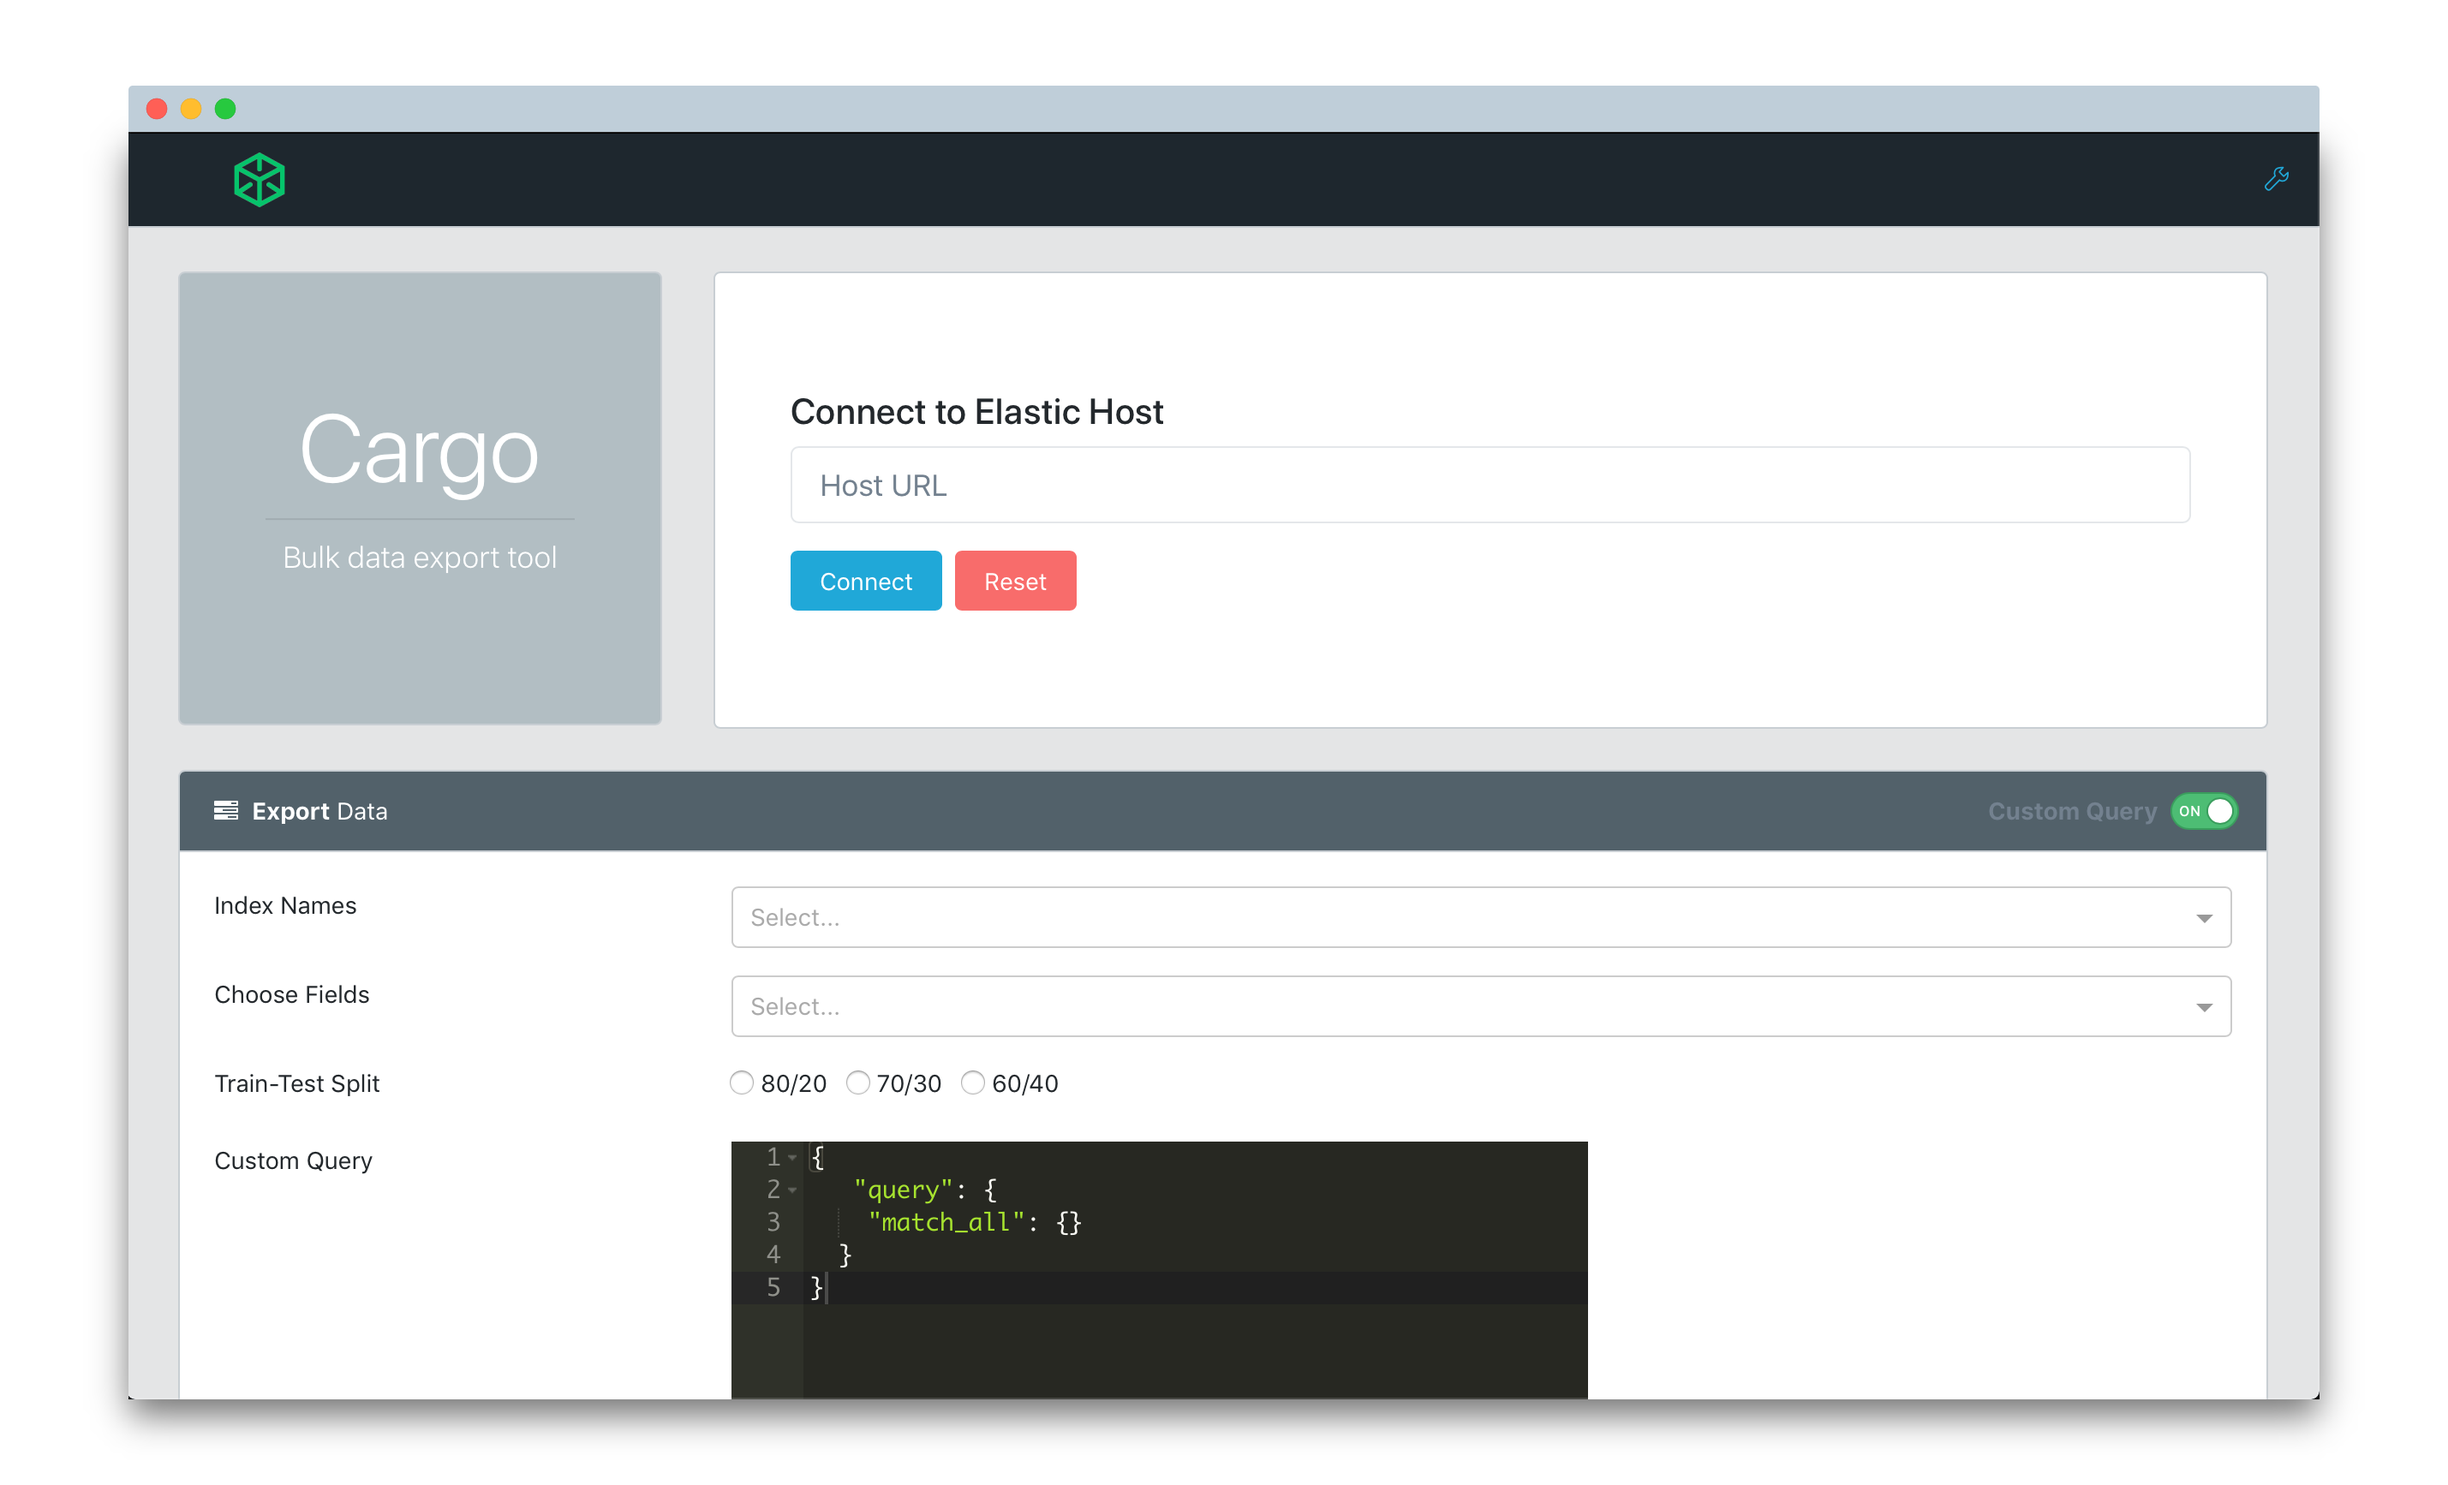
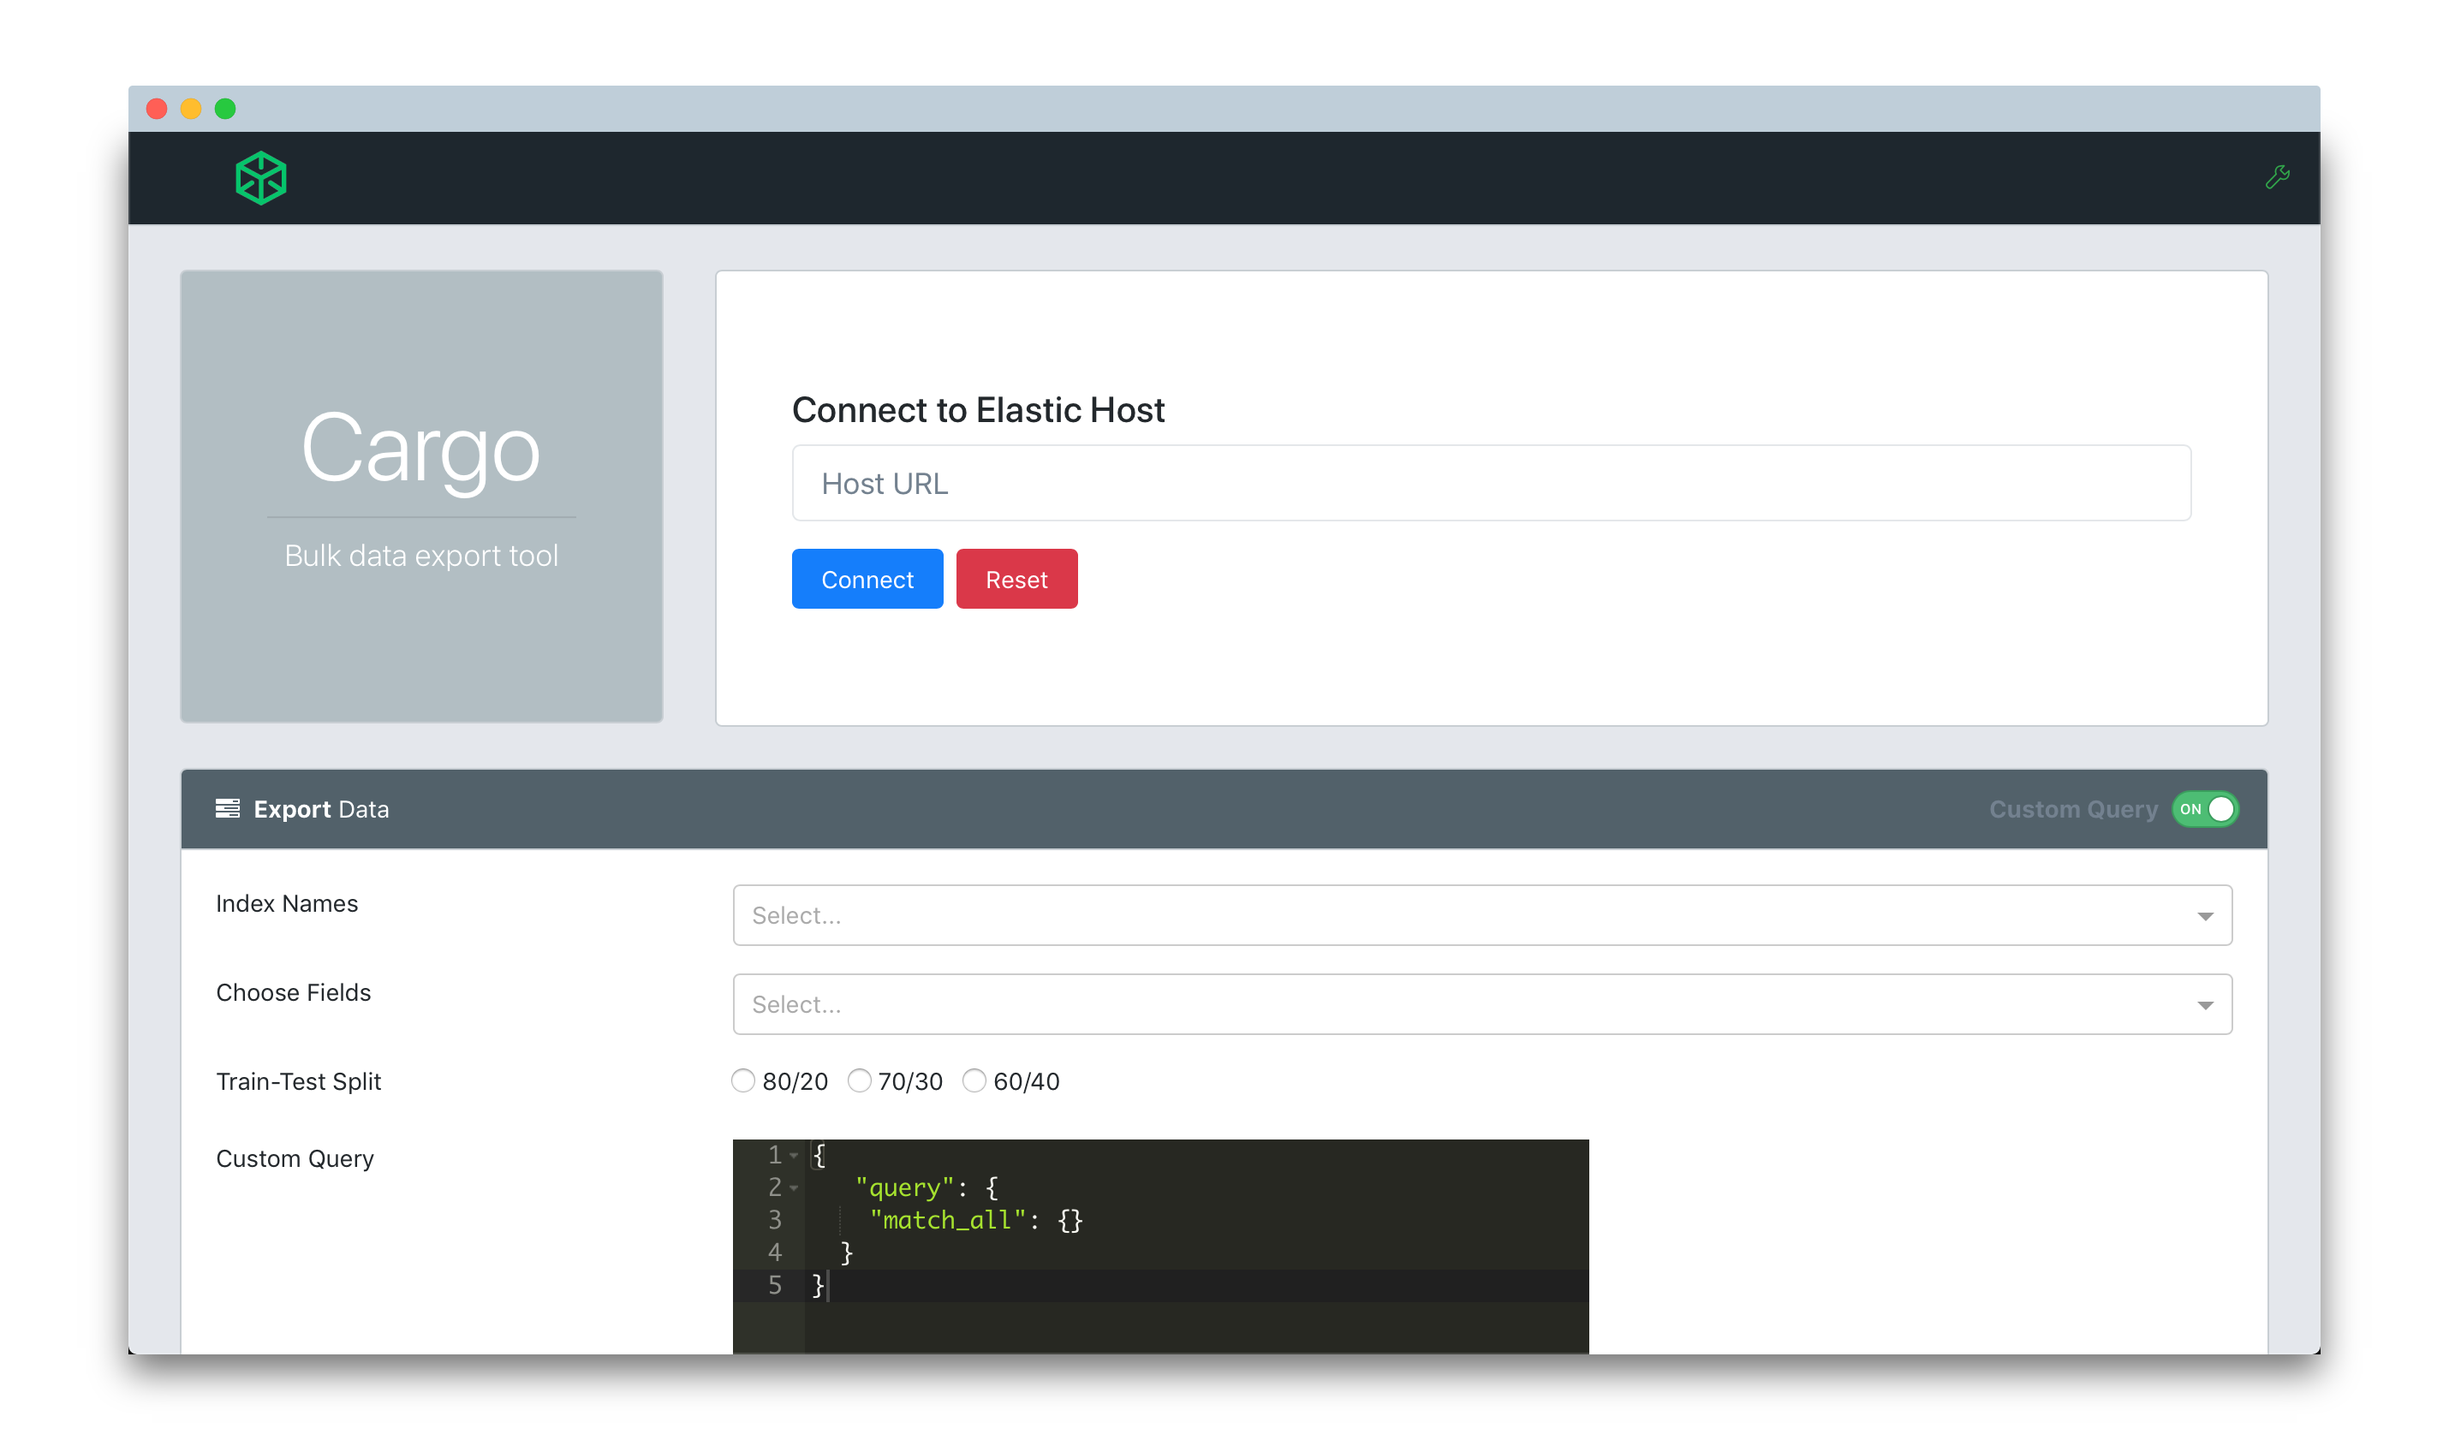
primary color change

diff --git a/services/cargo_ui/src/css/style.css b/services/cargo_ui/src/css/style.css
@@ -179,7 +179,7 @@ sup {
 }
 
 a {
-  color: #20a8d8;
+  color: #157efb;
   text-decoration: none;
   background-color: transparent;
   -webkit-text-decoration-skip: objects;
@@ -2308,8 +2308,8 @@ fieldset:disabled a.btn {
 
 .btn-primary {
   color: #fff;
-  background-color: #20a8d8;
-  border-color: #20a8d8;
+  background-color: #157efb;
+  border-color: #157efb;
 }
 
 .btn-primary:hover {
@@ -2334,8 +2334,8 @@ fieldset:disabled a.btn {
 .btn-primary:not(:disabled):not(.disabled).active,
 .show>.btn-primary.dropdown-toggle {
   color: #fff;
-  background-color: #1985ac;
-  border-color: #187da0;
+  background-color: #157efb;
+  border-color: #157efb;
 }
 
 .btn-primary:not(:disabled):not(.disabled):active:focus,
@@ -2384,8 +2384,8 @@ fieldset:disabled a.btn {
 
 .btn-success {
   color: #fff;
-  background-color: #4dbd74;
-  border-color: #4dbd74;
+  background-color: #30a64a;
+  border-color: #30a64a;
 }
 
 .btn-success:hover {
@@ -2410,8 +2410,8 @@ fieldset:disabled a.btn {
 .btn-success:not(:disabled):not(.disabled).active,
 .show>.btn-success.dropdown-toggle {
   color: #fff;
-  background-color: #3a9d5d;
-  border-color: #379457;
+  background-color: #30a64a;
+  border-color: #30a64a;
 }
 
 .btn-success:not(:disabled):not(.disabled):active:focus,
@@ -2498,8 +2498,8 @@ fieldset:disabled a.btn {
 
 .btn-danger {
   color: #fff;
-  background-color: #f86c6b;
-  border-color: #f86c6b;
+  background-color: #da3849;
+  border-color: #da3849;
 }
 
 .btn-danger:hover {
@@ -2524,8 +2524,8 @@ fieldset:disabled a.btn {
 .btn-danger:not(:disabled):not(.disabled).active,
 .show>.btn-danger.dropdown-toggle {
   color: #fff;
-  background-color: #f63c3a;
-  border-color: #f5302e;
+  background-color: #da3849;
+  border-color: #da3849;
 }
 
 .btn-danger:not(:disabled):not(.disabled):active:focus,
@@ -2801,16 +2801,16 @@ fieldset:disabled a.btn {
 }
 
 .btn-outline-danger {
-  color: #f86c6b;
+  color: #da3849;
   background-color: transparent;
   background-image: none;
-  border-color: #f86c6b;
+  border-color: #da3849;
 }
 
 .btn-outline-danger:hover {
   color: #fff;
-  background-color: #f86c6b;
-  border-color: #f86c6b;
+  background-color: #da3849;
+  border-color: #da3849;
 }
 
 .btn-outline-danger:focus,

diff --git a/services/cargo_ui/src/containers/Main/Extras/DefaultHeader.js b/services/cargo_ui/src/containers/Main/Extras/DefaultHeader.js
@@ -22,25 +22,29 @@ class DefaultHeader extends Component {
 
         <Nav className="ml-auto">
           <AppHeaderDropdown direction="down">
-            <DropdownToggle nav>
-              <i className="icon-wrench" />
+            <DropdownToggle color="success" nav>
+              <i style={{ color: "#30a64a" }} className="icon-wrench" />
             </DropdownToggle>
             <DropdownMenu right style={{ right: "auto" }}>
-              <DropdownItem header tag="div" className="text-center">
+              <DropdownItem header tag="div" className="dtext-center">
                 <strong>Settings</strong>
               </DropdownItem>
               <DropdownItem>
-                <i className="icon-rocket" />
-                <a target="_blank" rel="noopener" href="http://localhost:8080/">
+                <i style={{ color: "#157efb" }} className="icon-rocket" />
+                <a
+                  target="_blank"
+                  rel="noopener noreferrer"
+                  href="http://localhost:8080/"
+                >
                   {" "}
                   Monitoring
                 </a>
               </DropdownItem>
               <DropdownItem>
-                <i className="icon-docs" />
+                <i style={{ color: "#157efb" }} className="icon-docs" />
                 <a
                   target="_blank"
-                  rel="noopener"
+                  rel="noopener noreferrer"
                   href="http://localhost/swagger"
                 >
                   {" "}
@@ -48,10 +52,13 @@ class DefaultHeader extends Component {
                 </a>
               </DropdownItem>
               <DropdownItem>
-                <i className="icon-social-github" />
+                <i
+                  style={{ color: "#157efb" }}
+                  className="icon-social-github"
+                />
                 <a
                   target="_blank"
-                  rel="noopener"
+                  rel="noopener noreferrer"
                   href="https://github.com/maitray16/Cargo"
                 >
                   {" "}

diff --git a/services/cargo_ui/src/containers/Main/Export/Export.js b/services/cargo_ui/src/containers/Main/Export/Export.js
@@ -329,7 +329,7 @@ export default class Export extends Component {
               <ReactLoading
                 className="float-right"
                 type={"bars"}
-                color={"#3498db"}
+                color={"#157efb"}
                 height={42}
                 width={42}
               />

diff --git a/services/cargo_server/project/api/main.py b/services/cargo_server/project/api/main.py
@@ -1,7 +1,7 @@
 from flask import Blueprint, jsonify, request, g, send_file, make_response
 from elasticsearch import Elasticsearch, ConnectionError
 from project.api.ExportJobUtils.es_utils import scroll_data
-from project.api.ExportJobUtils.get_data_from_es import ESGetData 
+from project.api.ExportJobUtils.get_data_from_es import ESGetData
 from pymongo import MongoClient
 from bson import json_util
 import pandas as pd
@@ -123,9 +123,10 @@ def export_data():
 
     #1 Get elastic connection
     #2 Get result dataframe
-    #3 Export type 
+    #3 Export type
     es = _get_connection(host)
-    # e = ESGetData(data, es)
+    e = ESGetData(data, es)
+    e.execute_job()
 
     args = dict(
         index=index,

diff --git a/services/cargo_server/project/api/ExportJobUtils/get_data_from_es.py b/services/cargo_server/project/api/ExportJobUtils/get_data_from_es.py
@@ -3,17 +3,19 @@ import json
 import pandas as pd
 import elasticsearch
 
+
 class ESGetData:
-    
     def __init__(self, params, es_connection):
         self.params = params
         index = []
         index = params.get("index")
         self.shard_count = self.get_shard_count(es_connection, index)
-        
 
     def get_shard_count(self, es_connection, es_index):
         params = es_connection.indices.get_settings(es_index)
         shards = params[es_index[0]]['settings']['index']['number_of_shards']
         return shards
-    
+
+    def execute_job(self):
+        if (int(self.shard_count) > 1):
+            print("herhe")
